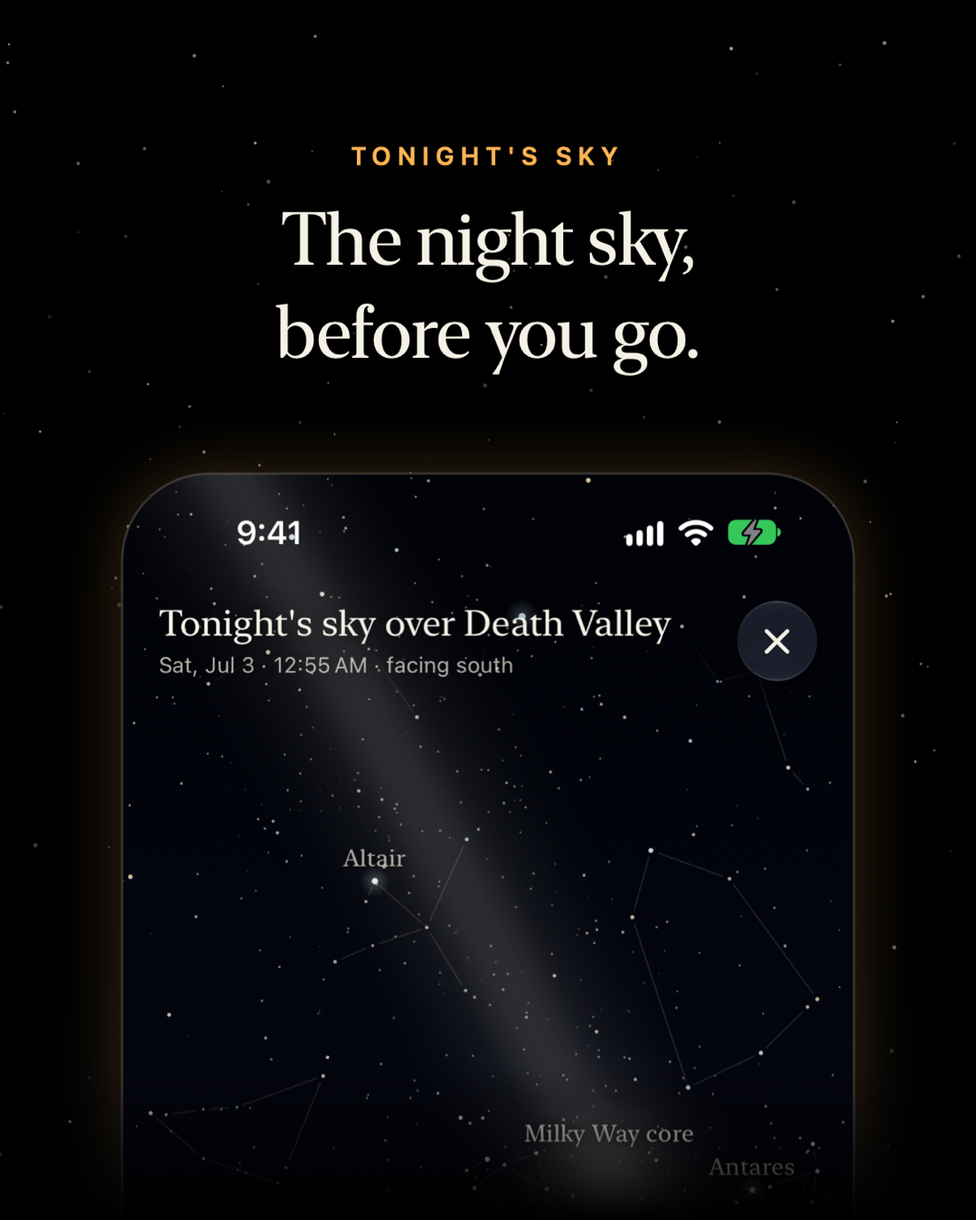
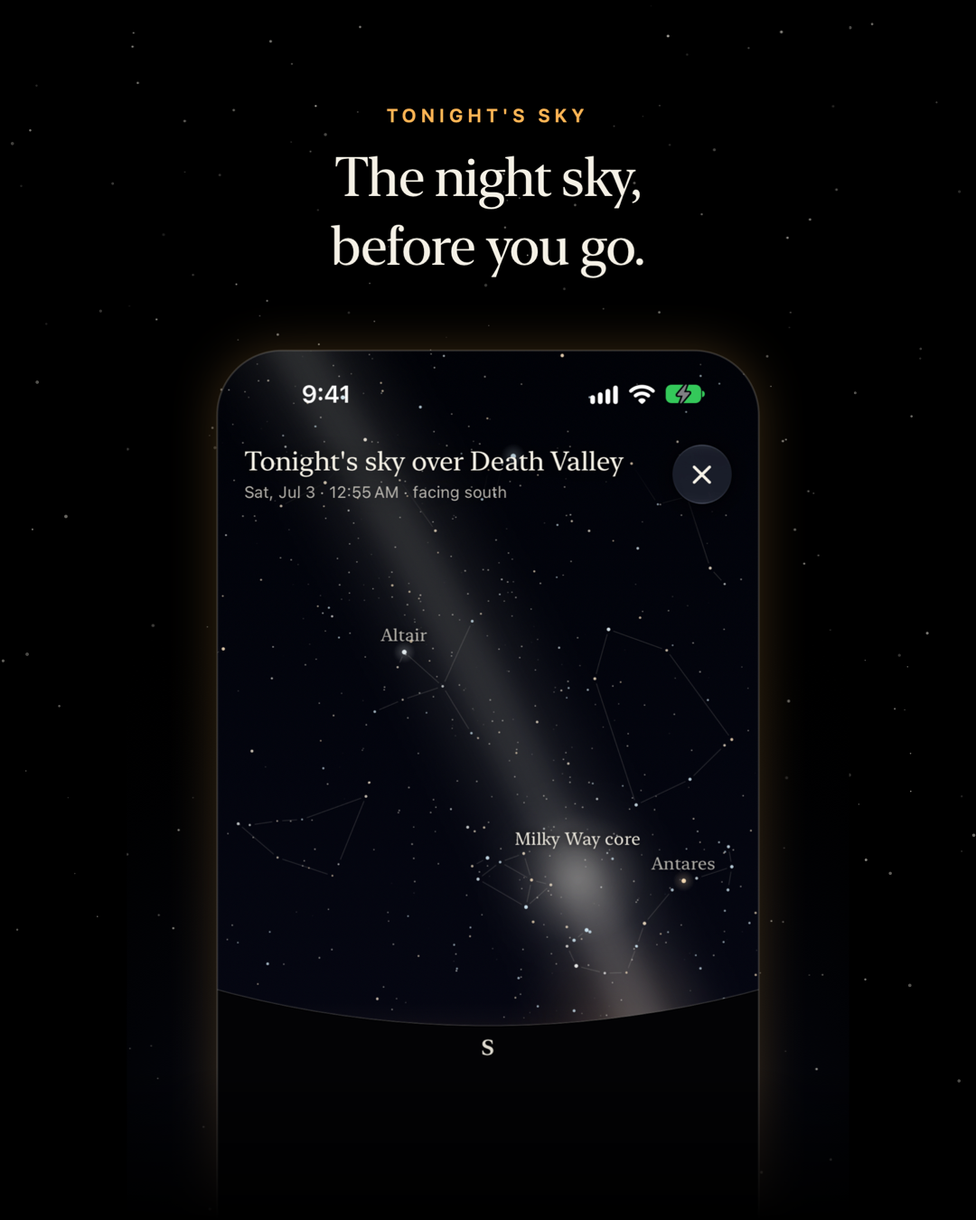
The sky card shows what its alt text says: drawn at 0.74 so the Milky Way core, Antares and the southern horizon clear the bottom fade, the Tonight card's alt text keeps to what its crop shows, the calendar's ringed Oct 13–17 described as the best five-night stretch (the new moon is Oct 10, under cl

diff --git a/Scripts/make_social.swift b/Scripts/make_social.swift
@@ -20,7 +20,8 @@ struct Card {
 // Framed sources: the eyebrow and headline below are the frames' own captions, for reference.
 let cards = [
     Card(source: "Store/1.2 v10/iPhone/6.3-inch/01-tonights-sky.png", output: "01-sky.png",
-         eyebrow: "TONIGHT'S SKY", headline: "The night sky,\nbefore you go.", cropTop: 0, framed: true),
+         eyebrow: "TONIGHT'S SKY", headline: "The night sky,\nbefore you go.", cropTop: 0, framed: true,
+         scale: 0.74),  // smaller, so the core, Antares and the southern horizon sit above the bottom fade
     Card(source: "Store/1.2 v10/iPhone/6.3-inch/02-tonight.png", output: "02-tonight.png",
          eyebrow: "TONIGHT", headline: "Where is the sky\ndarkest tonight?", cropTop: 0, framed: true,
          scale: 0.9),  // the whole dial and its band word

diff --git a/Scripts/capture_store.py b/Scripts/capture_store.py
@@ -1,9 +1,9 @@
 """Raw native-resolution App Store captures for the 1.2 iPhone set. Run after a Debug simulator build.
 
-Usage: python3 Scripts/capture_store.py [SIMULATOR_ID] [DERIVED_DATA] [en|es] [name,name…] [--out FOLDER]
+Usage: python3 Scripts/capture_store.py [SIMULATOR_ID] [DERIVED_DATA] [en] [name,name…] [--out FOLDER]
 Capture on the iOS 27 iPhone 18 Pro: its 1206×2622 screen is App Store Connect's required iPhone slot
 ("Dynamic Island, medium display"), so the frames need no scaling. Raw captures are size-neutral
-(NN-name.png) and go to FOLDER (default `Store/1.2 v10/raw`, or `Store/1.2 v10/raw/es` for es).
+(NN-name.png) and go to FOLDER (default `Store/1.2 v10/raw`).
 The optional name list retakes only those frames and keeps the rest of the set.
 
 The 1.2 story, real sky first: the sky over the park, Tonight (the only dial in the first three frames),
@@ -12,7 +12,8 @@ takes, every park on the map, and the constellation. Tonight, What's up and the 
 Every frame uses live data (`-nyx-state live`: real Open-Meteo forecasts and NPS alerts at capture time,
 scored by the shipping engine), except the journal, which is DEBUG seed data with no personal photo.
 Every launch adds `-nyx-reduce-motion`, so no reveal or dial is mid-flight in a still.
-The Spanish frames follow the 1.1 order until the native review and are not recaptured with this list.
+The Spanish frames follow the 1.1 order until the native review: `es` exits here, since this list's
+names and order are not what `make_store_frames.swift es` reads (`Store/Screenshots/es`, 1.1 order).
 """
 import subprocess,time,pathlib,sys,tempfile
 args=sys.argv[1:]
@@ -22,14 +23,15 @@ if '--out' in args:
 sim=args[0] if len(args)>0 else '5BB44DBD-DBE4-4FA3-84C8-8E92D3B3F0B3'
 derived=args[1] if len(args)>1 else '/tmp/NyxBuild'
 lang=args[2] if len(args)>2 else 'en'
+if lang!='en':
+ sys.exit(f"capture_store.py: only 'en' is captured with the 1.2 list; the Spanish frames keep the 1.1 order in Store/Screenshots/es until the native review (got '{lang}').")
 # Optional fourth argument: only these frames (e.g. field,compass), so a retake keeps the rest of the set.
 only=set(args[3].split(',')) if len(args)>3 else None
 def run(*a): return subprocess.run(['xcrun','simctl',*a],check=True,capture_output=True)
 subprocess.run(['xcrun','simctl','boot',sim],capture_output=True)
 run('bootstatus',sim,'-b')
 run('install',sim,derived+'/Build/Products/Debug-iphonesimulator/Nyx.app')
-folder=pathlib.Path(out or ('Store/1.2 v10/raw'+('/es' if lang=='es' else '')));folder.mkdir(parents=True,exist_ok=True)
-language=['-AppleLanguages','(es)','-AppleLocale','es_MX'] if lang=='es' else []
+folder=pathlib.Path(out or 'Store/1.2 v10/raw');folder.mkdir(parents=True,exist_ok=True)
 today=time.strftime('%Y-%m-%d')
 # (name, launch arguments)
 shots=[
@@ -54,7 +56,7 @@ run('status_bar',sim,'override','--time','9:41','--batteryState','charged','--ba
 try:
  for index,(name,args) in enumerate(shots,1):
   if only and name not in only: continue
-  run('launch','--terminate-running-process',sim,'com.harrypakhale.nyx',*args,'-nyx-reduce-motion',*language)
+  run('launch','--terminate-running-process',sim,'com.harrypakhale.nyx',*args,'-nyx-reduce-motion')
   time.sleep(14 if 'live' in args else 8)
   path=folder/f'{index:02d}-{name}.png'
   # Captured to a temporary file and copied in: simctl may be refused when it overwrites a frame in place.

diff --git a/PHASE_STATUS.md b/PHASE_STATUS.md
@@ -2,10 +2,10 @@
 
 Branch `main`, version **1.2**, build **10** in `project.yml` (build 8 was uploaded on 2026-10-08 and lacks the last two days; build 9 was never uploaded; `INPUT_NEEDED.md` step 12). A design review judged build 9 against the Apple Design Award categories and set eight lanes; each was implemented, reviewed and fixed, then merged in order, integrated (accessibility audit repairs), re-judged against fresh captures and fixed once more. Every change is logged in `DECISIONS.md` under "Award panel — 2026-10-08 (…)" and "Award panel — 2026-10-09 (…)". The score formula and the bands are unchanged.
 
-- **Done:** *The reveal* — the score counts with no word beside it, then the band word, the last digit and one light tick land together; each park and night counts once per session (later visits settle in 0.35 s), Tonight's first count waits for onboarding and first light, the double tap for a reminder-worthy night comes 0.8 s after the dial settles, and when the forecast models disagree the dial shows their range as a band, in words under it and to VoiceOver · *The Moon and the share card* — crater relief from NASA's LOLA elevation along the terminator on every Moon from 120 pt (one 4096×3072 atlas, app only, off while scrubbing, faded toward the limb and full Moon), small Moons keep a faint edge near new, and the share card leads with the night (the Moon or "New moon" with a hairline circle, a light serif score, the models' range, the park, date and reason; no gauge; always exported in colour) · *Platform honesty* — a followed night's Live Activity follows the forecast (score, band and closure, "94 · Pristine as of Wed" when old, one activity per park and night), and Ask Nyx streams only grounded words, lists each lookup live and says "Numbers checked against the records" · *The night stays night* — a night without true darkness shows its twilight with only the brightest stars, none under the midnight sun; no dome seam behind the screens; a calmer sky under Increase Contrast; Assistive Access turns red with a Red light row; Smart Invert checked to leave every screen alone; review prompts per version, never in the dark · *Tonight's first screen* — the answer, then the alternatives, then the starting point as one row; one caveat caption; the tab bar shrinks on scroll (never under VoiceOver, Switch Control or accessibility sizes) with a followed night's strip; no ornamental titles; the flashlight switch dips the screen to black and turns red with one soft tap, one glyph in Control Center · *Under the finger* — the time river's 56 pt loupe with paced detents and a Directions row (step-free spots first), Plan's month as a paging pager that follows the finger with skeleton pages and ringed nights drawing in · *Bold Text and touch* — every outline and hairline 1.6× under Bold Text or Increase Contrast with a minimum mark size, and with VoiceOver the sky arc can be felt under the finger (a hum through the night, knocks at true darkness, taps at moonrise and moonset, the park-local time spoken) · *Stars arrive, stars leave* — Tonight's sky arrives as eyes adapt over about four seconds, the Sky glow panel shows the park's own sky beside the same sky at a city's class 8, "A sky worth protecting" quotes Falchi 2016 and Kyba 2023 with a Globe at Night link, in English and Spanish · *Closing fixes* — tied nights ranked by the uncapped sum of their parts, the gauge's rim on twilight skies, numeral tracking, Plan's selection and height per page, onboarding at accessibility sizes, one lamp tap from the root view, store, nomination and award copy brought to build 10 (442 tests in 43 suites). · *A breakdown that adds up* — the four parts are whole points that always make the sum the caption names (largest remainder), on the park breakdown, the readout and Vision Pro.
-- **Verified 2026-10-09 (this handoff):** Xcode 27.0. The iOS 27 app build from an emptied build folder: BUILD SUCCEEDED in 61 s, zero warnings. The unit suite (iPhone 18 Pro / iOS 27.0): 443 Swift Testing tests in 43 suites pass in 9.3 s (90 s with the build), no failures or warnings in the log. The unit suite on iOS 26.5 (iPhone 17 Pro / iOS 26.5): the same 443 tests in 43 suites pass in 8.7 s (66 s with the build). NyxWatch and NyxVision builds from emptied build folders: BUILD SUCCEEDED in 22 s and 16 s, zero warnings. `apply_translations.py --check`: Localizable, InfoPlist and NyxVision ok. Earlier on October 9: the integration stage reran the accessibility audit, minimised tab bar included, on iOS 27 and 26.5; a capture pass of 129 screens (12 on iOS 26.5, 11 on the iPad 13-inch) fed the re-judging, and 30 iPhone screens (4 on iOS 26.5) and 2 iPad screens were recaptured to check its fixes. UI tests were not rerun for this handoff (only the build number and documents changed).
+- **Done:** *The reveal* — the score counts with no word beside it, then the band word, the last digit and one light tick land together; each park and night counts once per session (later visits settle in 0.35 s), Tonight's first count waits for onboarding and first light, the double tap for a reminder-worthy night comes 0.8 s after the dial settles, and when the forecast models disagree the dial shows their range as a band, in words under it and to VoiceOver · *The Moon and the share card* — crater relief from NASA's LOLA elevation along the terminator on every Moon from 120 pt (one 4096×3072 atlas, app only, off while scrubbing, faded toward the limb and full Moon), small Moons keep a faint edge near new, and the share card leads with the night (the Moon or "New moon" with a hairline circle, a light serif score, the models' range, the park, date and reason; no gauge; always exported in colour) · *Platform honesty* — a followed night's Live Activity follows the forecast (score, band and closure, "94 · Pristine as of Wed" when old, one activity per park and night), and Ask Nyx streams only grounded words, lists each lookup live and says "Numbers checked against the records" · *The night stays night* — a night without true darkness shows its twilight with only the brightest stars, none under the midnight sun; no dome seam behind the screens; a calmer sky under Increase Contrast; Assistive Access turns red with a Red light row; Smart Invert checked to leave every screen alone; review prompts per version, never in the dark · *Tonight's first screen* — the answer, then the alternatives, then the starting point as one row; one caveat caption; the tab bar shrinks on scroll (never under VoiceOver, Switch Control or accessibility sizes) with a followed night's strip; no ornamental titles; the flashlight switch dips the screen to black and turns red with one soft tap, one glyph in Control Center · *Under the finger* — the time river's 56 pt loupe with paced detents and a Directions row (step-free spots first), Plan's month as a paging pager that follows the finger with skeleton pages and ringed nights drawing in · *Bold Text and touch* — every outline and hairline 1.6× under Bold Text or Increase Contrast with a minimum mark size, and with VoiceOver the sky arc can be felt under the finger (a hum through the night, knocks at true darkness, taps at moonrise and moonset, the park-local time spoken) · *Stars arrive, stars leave* — Tonight's sky arrives as eyes adapt over about four seconds, the Sky glow panel shows the park's own sky beside the same sky at a city's class 8, "A sky worth protecting" quotes Falchi 2016 and Kyba 2023 with a Globe at Night link, in English and Spanish · *Closing fixes* — tied nights ranked by the uncapped sum of their parts, the gauge's rim on twilight skies, numeral tracking, Plan's selection and height per page, onboarding at accessibility sizes, one lamp tap from the root view, store, nomination and award copy brought to build 10 (484 tests in 49 suites after award round two). · *A breakdown that adds up* — the four parts are whole points that always make the sum the caption names (largest remainder), on the park breakdown, the readout and Vision Pro.
+- **Verified 2026-10-09 (this handoff):** Xcode 27.0. The iOS 27 app build from an emptied build folder: BUILD SUCCEEDED in 61 s, zero warnings. The unit suite (iPhone 18 Pro / iOS 27.0): 443 Swift Testing tests in 43 suites pass in 9.3 s (90 s with the build), no failures or warnings in the log. The unit suite on iOS 26.5 (iPhone 17 Pro / iOS 26.5): the same 443 tests in 43 suites pass in 8.7 s (66 s with the build). NyxWatch and NyxVision builds from emptied build folders: BUILD SUCCEEDED in 22 s and 16 s, zero warnings. `apply_translations.py --check`: Localizable, InfoPlist and NyxVision ok. Earlier on October 9: the integration stage reran the accessibility audit, minimised tab bar included, on iOS 27 and 26.5; a capture pass of 129 screens (12 on iOS 26.5, 11 on the iPad 13-inch) fed the re-judging, and 30 iPhone screens (4 on iOS 26.5) and 2 iPad screens were recaptured to check its fixes. UI tests were not rerun for this handoff (only the build number and documents changed). Later on October 9, after award round two: the iOS 27 unit suite reports 484 Swift Testing tests in 49 suites with zero warnings, the count the case study and award entries state.
 - **Known issues:** nothing has run on a physical device; build 10's haptics, 120 Hz motion, direct touch, the Moon's relief strength (tuned by eye; ±30% depending on how the shader receives colour), the atlas's ~48 MB of texture memory and Ask Nyx's answers with citations generated first (the system model does not run in the simulator) are on the device pass (`INPUT_NEEDED.md` step 9, "Build 10's new work"). · The iPhone store frames and the four social cards were recaptured from build 10 in award round two (`Store/1.2 v10/`, real sky first, one gauge in the first three); the iPad, Watch and Vision Pro frames (`Store/1.1 v8/`) and the App Preview still predate build 10, and the device pass may require a retake of any iPhone frame whose screen it changes. · Captures not taken: the light route and Tonight's From home panel on iOS 26.5 (audited there only through the Tonight key screen; the iOS 26 captures from the Sky glow lane predate its fixes); the share card's models' range (the `share-disagree` route lands on an early-look night; the range under the dial was seen on tonight-disagree, 73–96, and detail-offline, 55–83); the 9:16 story; xLarge to xxxLarge standard sizes and a 375 pt phone for the city segments; the 6.1-inch Tonight (worked out, not measured); `editor-photo-ax5-bottom` shows the plain editor, not the photo state; the share review at AX5 is the rendered card, so it is no separate check. · Audit and tests: `testMinimisedTabBarPassesTheAudit` is flaky on iOS 27 (the bar did not minimise on a first run, passed on rerun); on iOS 26.5 the system bar sometimes re-expands under the audit, and the 2-second re-audit excuses only findings whose elements have vanished; Tonight's starting-point row still uses `ViewThatFits` (the audit calls its texts partially Dynamic Type, failing only at AX5; if it ever clips, give it the `TitleValueLayout` treatment, not an exemption); the Parks band labels keep their exemption on the standard passes; `testCityLightSegmentsSpeakAsShown` assumes the segments fit on an iPhone 18 Pro. · Behaviour to know: a count already started keeps playing behind Control Center (the hold applies in the background only); DEBUG capture routes load forecasts after the first frame, so Tonight's dial can sweep from one park to another there (a real launch reads caches first); the time to answer (about 2.5 s) was measured on a score of 22, and about 650 ms between first frame and the gauge's first task is unexplained; a pending Live Activity is re-requested only while Nyx is in the foreground and the end-and-request path is untested on a device; in night vision Ask Nyx's streaming and checked words are the same red; with VoiceOver the night-vision switch may say its state twice; with direct touch, the arc's legend and times also hum; the 2.6 pt minimum grows the lowest-score marks slightly and under Bold Text unfilled marks near a Pristine dot's size; the river's loupe covers a night or two either side near the first nights (by design); on a 6.3-inch iPhone Best stretch's card starts under the tab bar with only its dates visible, as in build 9; the pager rebuilds once on first appearance (harmless); Ask Nyx can name a crescent that sets before true darkness over the new Moon when the uncapped sums differ by less than half a point (Arches, Oct 15 over Oct 9; consistent with the moonlight model, logged); Hot Springs gets no city comparison; Smart Invert was not seen inside Assistive Access or field mode; protan eyes get 3.89:1 for muted text on the standard red over the polar twilight's bottom edge (the brighter red fixes it). · Deferred, logged in `DECISIONS.md`: a veil keeping background stars off text rows; capping the quarter Moon's limb highlight; an overcast night's number beside a smaller cloud in Plan; the iPad journal's empty-state button, which floats far from the empty constellation on a 13-inch canvas; the month tick when the scroll target is chosen; the warm edge glow on the Spanish share card; tighter spacing for long starting-point names; overriding the status bar in iOS 26 captures; onboarding's first page at AX5 still continues under the page dots (the indicator flashes and it scrolls); the get-nyx.com light page and a Dark Sky Week In-App Event wait for the recapture. · The Spanish essay and new strings are drafts (step 11). Nothing is pushed: pushing `main` redeploys get-nyx.com (step 20).
-- **Next:** (1) the owner's device pass on build 10 (`INPUT_NEEDED.md` steps 9–10, including the new "Build 10's new work" list), fixing what it finds; (2) one capture pass on iOS 26.5, iOS 27 and the iPad 13-inch, the store frames re-sequenced (sky frame first, no repeated 97 gauge), social cards regenerated, the App Preview recorded; (3) archive and upload 1.2 (10) for iOS with the watch and for visionOS (`python3 Scripts/verify_release.py --require-key` first), select build 10 and submit (steps 12–17). Starting point for the next session: `main` at the build 10 handoff commit; The iOS 27 app build then The unit suite should report 484 tests in 49 suites (after award round two).
+- **Next:** (1) the owner's device pass on build 10 (`INPUT_NEEDED.md` steps 9–10, including the new "Build 10's new work" list), fixing what it finds; (2) the iPad, Apple Watch and Vision Pro store sets recaptured (the iPhone set is done in `Store/1.2 v10/`, real sky first, with its social cards), the App Preview recorded once shot 3's Moon route is fixed, and a retake of any iPhone frame the device pass changes; (3) archive and upload 1.2 (10) for iOS with the watch and for visionOS (`python3 Scripts/verify_release.py --require-key` first), select build 10 and submit (steps 12–17). Starting point for the next session: `main` at the build 10 handoff commit; the iOS 27 app build should report zero warnings and the unit suite 484 tests in 49 suites (after award round two).
 
 # Nyx handoff — 2026-10-08 (Team review — version 1.2, build 9)
 

diff --git a/INPUT_NEEDED.md b/INPUT_NEEDED.md
@@ -78,7 +78,7 @@
     - **Spanish (Mexico):** after step 11.
     - **Website URLs:** Privacy Policy `https://get-nyx.com/privacy`, Support `https://get-nyx.com/support`, Marketing `https://get-nyx.com/`.
 
-14. **Enter the metadata and screenshots.** Paste from `Store/1.1/metadata.md` (subtitle "Stargazing in national parks", keywords, description) and `metadata-visionos.md`. Screenshots, replacing every earlier upload: **iPhone: `Store/1.2 v10/iPhone/`** (recaptured from build 10 on October 9, real sky first, one gauge in the first three; `6.3-inch/` is required, `6.9-inch/` and `6.5-inch/` optional; captions and contents in `Store/1.2 v10/README.md`). `Store/1.1 v8/` is superseded for iPhone. **iPad `Store/1.1 v8/iPad/`, Watch `Store/1.1 v8/Apple Watch/` and Vision Pro `Store/1.1 v8/Apple Vision Pro/` are still the build 8 sets** until their own recapture. Never upload the build 7 frames in `Store/Framed/` (they show scores the new rules no longer allow). **Spanish frames wait for the native review** (step 11). **The device pass (step 9) may still require a retake** of any frame whose screen it changes: ask me and I retake only those frames (`Scripts/capture_store.py` takes a list of names) and regenerate the social cards. Optional App Preview: `Store/1.1/app-preview-script.md` (28 s, now with the city-light shot; recorded after the device pass). **Social posts:** the four 4:5 cards in `Store/Social` are built from the build 10 frames and `Store/Social/POSTS.md` carries their alt text and a city-light post; only you can post, from your own accounts, once 1.2 is live. The promo videos in that folder predate 1.2 and are not to be posted. Ask me to recapture the iPad, Watch and Vision Pro sets after the device pass, and to draft the get-nyx.com light page and an International Dark Sky Week In-App Event; for the event, first confirm the 2027 dates and how DarkSky asks the name to be used, on darksky.org, and send them to me.
+14. **Enter the metadata and screenshots.** Paste from `Store/1.1/metadata.md` (subtitle "Stargazing in national parks", keywords, description) and `metadata-visionos.md`. Screenshots, replacing every earlier upload: **iPhone: `Store/1.2 v10/iPhone/`** (recaptured from build 10 on October 9, real sky first, one gauge in the first three; `6.3-inch/` is required, `6.9-inch/` and `6.5-inch/` optional; captions and contents in `Store/1.2 v10/README.md`). `Store/1.1 v8/` is superseded for iPhone. **iPad `Store/1.1 v8/iPad/`, Watch `Store/1.1 v8/Apple Watch/` and Vision Pro `Store/1.1 v8/Apple Vision Pro/` are still the build 8 sets** until their own recapture. Never upload the build 7 frames in `Store/Framed/` (they show scores the new rules no longer allow). **Spanish frames wait for the native review** (step 11). **The device pass (step 9) may still require a retake** of any frame whose screen it changes: ask me and I retake only those frames (`Scripts/capture_store.py` takes a list of names) and regenerate the social cards. Optional App Preview: `Store/1.1/app-preview-script.md` (28 s, now with the city-light shot; recorded after the device pass). Before it is recorded, ask me to fix shot 3's `-nyx-chapter moon` route, which lands with the "Wake me" panel cut under the chapter index on iOS 26.5 and 27; it should land with the Moonlight panel at the top. **Social posts:** the four 4:5 cards in `Store/Social` are built from the build 10 frames and `Store/Social/POSTS.md` carries their alt text and a city-light post; only you can post, from your own accounts, once 1.2 is live. The promo videos in that folder predate 1.2 and are not to be posted. Ask me to recapture the iPad, Watch and Vision Pro sets after the device pass, and to draft the get-nyx.com light page and an International Dark Sky Week In-App Event; for the event, first confirm the 2027 dates and how DarkSky asks the name to be used, on darksky.org, and send them to me.
 
 15. **Answer App Privacy, age rating and Accessibility.** App Privacy: "Data Not Collected", no tracking (`PRIVACY.md`). Age rating: re-answer (unchanged). Accessibility Nutrition Labels: declare per device only what step 9 confirmed. **Review notes:** paste `SUBMISSION.md` § Review notes, including the background refresh sentence: "Background App Refresh updates saved parks' cloud forecasts and park alerts from the same public services (api.open-meteo.com, developer.nps.gov) about every six hours, so local reminders and the widget never rely on an old forecast. No user data is sent."
 

diff --git a/Store/1.2 v10/README.md b/Store/1.2 v10/README.md
@@ -32,7 +32,7 @@ Captured natively at 1206 × 2622 on iPhone 18 Pro (iOS 27.0), which is App Stor
 | `04-score.png` | THE DARKNESS SCORE / One number, and its reasons. | Death Valley's page, Tonight chapter: gauge 97 Pristine (band word and scale inside the dial), best window 7:50 PM – 5:30 AM, clear, with the core's hours, and the four parts (Moonlight 40/40, Clouds 25/25 with "Models agree", Sky glow 17/20, True darkness 15/15) |
 | `05-field-mode.png` | FIELD MODE / Red light for dark-adapted eyes. | Field mode at Joshua Tree (65 Good), 60 minutes after sunset: "True darkness in 23 min, at 7:39 PM, then 9h 42m of it", the Draconids at their best, the core sinking, eyes adjusting 4 of about 30 minutes |
 | `06-where-to-look.png` | WHERE TO LOOK / Point your iPhone. Find the core. | Where to look at Joshua Tree on July 3, 2027, about 3¾ hours after sunset: the core in the south under the reticle, Mars to the right. Beyond the forecast, so the header says the score (75 Excellent) uses the park's usual clouds |
-| `07-calendar.png` | BEST NIGHTS / Choose the night worth the drive. | Plan, One park: Joshua Tree's October 2026, nights sized by score, the new-moon nights Oct 13–17 ringed (89, 89, 89, 89, 88), forecast, early-look and usual-cloud nights drawn filled, half and hollow, and the best stretch "Tue, Oct 13 – Sat, Oct 17" under the tab bar |
+| `07-calendar.png` | BEST NIGHTS / Choose the night worth the drive. | Plan, One park: Joshua Tree's October 2026, nights sized by score, the best five-night stretch Oct 13–17 ringed (89, 89, 89, 89, 88), Oct 10 (the new moon) under cloud, forecast, early-look and usual-cloud nights drawn filled, half and hollow, and the best stretch "Tue, Oct 13 – Sat, Oct 17" under the tab bar |
 | `08-city-light.png` | WHAT CITY LIGHT TAKES / See the stars a city would hide. | Death Valley, The place: the Sky glow panel with the park's own drawn sky, the "Here · Class 2 / City · Class 8" switch, "An illustration: the same sky drawn at this park's estimated class and at a city's.", Bortle class 2 of 9, night lights from space, and the glow on the horizon from Las Vegas (45%), Ridgecrest and Visalia. Route: `-nyx-screen light -nyx-state live -nyx-park deva` (the default "Here" state) |
 | `09-parks-map.png` | EVERY PARK TONIGHT / 63 parks, darkest first. | Parks map: all 63 parks tonight with the Alaska, Hawaiʻi, American Samoa and Virgin Islands insets, the legend, and "Darkest tonight": Lassen Volcanic, Death Valley and Guadalupe Mountains at 97 |
 | `10-constellation.png` | YOUR CONSTELLATION / Every night becomes a star. Footnote: "Sample entries. Your journal stays on this iPhone." | Journal: the constellation from four sample nights in the Southwest, "4 of 63 national park skies", "Your year under the stars" |
@@ -44,4 +44,4 @@ Captured natively at 1206 × 2622 on iPhone 18 Pro (iOS 27.0), which is App Stor
 - **Times.** What's up gives the core's hours to the minute (7:45 – 8:34 PM); the score page's best-window line gives them to the nearest ten minutes (7:50 – 8:30 PM). Both are the app's own rounding of the same night.
 - The calendar's best-stretch card sits under the tab bar, with its dates legible; the route has no scroll control for the Plan tab, and the month is the frame's subject.
 - Scores, forecasts and alerts are live as of October 9, 2026. The owner's device pass (`INPUT_NEEDED.md` step 9) may still require a retake of any frame whose screen it changes.
-- Social cards (`Store/Social/`) are built from `iPhone/6.3-inch/` frames 01, 02, 07 and 08 by `Scripts/make_social.swift`.
+- Social cards (`Store/Social/`) are built from `iPhone/6.3-inch/` frames 01, 02, 07 and 08 by `Scripts/make_social.swift`, each drawn at its own scale (0.74, 0.9, 0.72, 0.8) so the core and horizon, the whole dial, the month's nights and the city switch with "An illustration" stay above the bottom fade.

diff --git a/DECISIONS.md b/DECISIONS.md
@@ -1333,7 +1333,11 @@ Shell, compliance and Vision Pro clouds lanes (the park-page lane follows). Gate
 - City light uses the default "Here · Class 2" state, not `-nyx-glow-compare city`: the switch is legible, "An illustration" is in frame, and the park's full sky is what "See the stars a city would hide." asks the reader to look at.
 - Sky frame: Death Valley on July 3, 2027 at the route's default hour (12:55 AM, facing south) already shows the core with Altair and Antares named, so no time control was needed; the date is on screen, as the route makes no forecast claim for that night.
 - The Spanish frame list is left as it was (1.1 order and sources) with a one-line note, and not regenerated: its captions and captures wait for the native review (AM-12).
-- Social cards take frames 01, 02, 07 and 08; framed cards gain a per-card scale (0.9, 0.72, 0.8) so the 4:5 crop keeps the whole dial, the month's nights, and the city switch with "An illustration" in view instead of cutting below the caption; stars fill the margins beside a smaller frame.
+- Social cards take frames 01, 02, 07 and 08; framed cards gain a per-card scale (0.74, 0.9, 0.72, 0.8) so the 4:5 crop keeps the core, Antares and the southern horizon above the bottom fade, the whole dial, the month's nights, and the city switch with "An illustration" in view instead of cutting below the caption; stars fill the margins beside a smaller frame.
 - POSTS.md: the Threads post names every platform at 488 characters with the link; one X post on what city light takes uses only checked facts (58 of 63 parks name the towns lighting the horizon from NASA Black Marble; the paired sky labelled an illustration; Globe at Night in Safari, Nyx sends nothing), at 276 characters; the pre-1.2 promo videos are marked not to be posted.
 - App Preview: a city-light shot after the calendar (Death Valley's The place chapter, the switch tapped about 1 s in), shot 2 trimmed to 5 s and the end card to 3 s, 28 s in all; shot 3 takes the existing `-nyx-chapter moon` route instead of asking for a new one.
-- Test counts in the case study and award entries say 484 tests in 49 suites, the count the iOS 27 suite reported on 2026-10-09 after the round-two lanes.
+- Test counts in the case study and award entries say 484 tests in 49 suites, the count the iOS 27 suite reported on 2026-10-09 after award round two.
+- The sky card's alt text matches the card again: at scale 1 its crop ended above the horizon with the core and Antares inside the bottom fade, so it is drawn at 0.74; the Tonight card keeps 0.9 (the dial large) and its alt text drops the closures line, which is below its crop.
+- The calendar's ringed nights (Oct 13–17) are described as the best five-night stretch, with Oct 10 under cloud: on the engine's epoch the new moon is Oct 10, so those nights are 3 to 7 days after it, a waxing crescent, not new-moon nights.
+- `capture_store.py es` now exits with a message instead of capturing: the 1.2 list writes size-neutral names in a new order, while `make_store_frames.swift es` reads the 1.1 Spanish sources, so a Spanish run would have fed stale frames silently until the native review.
+- The App Preview's shot 3 route (`-nyx-chapter moon`) is marked a known issue in the script and its fix added to step 14's recording to-do, so the recording session meets the cut "Wake me" panel before it records, not during.

diff --git a/Store/1.1/app-preview-script.md b/Store/1.1/app-preview-script.md
@@ -45,7 +45,7 @@ Revised 2026-10-07 (ST-4, DX-19). The order follows the product page's hero orde
 |---|---|---|---|---|
 | 1 | 0.0 to 4.0 s | Cold open on the real sky in colour over the park, then Tonight's first line: the darkest park and its score counting up. | `The darkest park. The darkest night.` (6) | `-nyx-screen sky -nyx-state live` cut to a plain Debug launch with no `-nyx-screen`, recorded after one warm launch (onboarding done, forecasts cached). The `tonight` route loads its forecasts after the first frame, so its dial starts on one park and jumps to another (34 to 97) mid-count; a warm launch reads the caches first and counts once from 0 to the hero score. |
 | 2 | 4.0 to 9.0 s | The thirty-night time river, scrubbed mid-way: the Moon above the selected night changes shape night by night, the best nights glow, the half-filled and hollow nights show where the forecast thins out. Perform the drag during the recording; haptics do not appear in video. Poster frame here, at about 7 s, with the Moon half lit. | `Scrub the month. Watch the Moon.` (6) | `-nyx-screen detail -nyx-state live` (scroll until the river fills the lower half) |
-| 3 | 9.0 to 13.0 s | The Moon at size: the shader Moon filling most of the width, lit at that night's phase, its terminator slowly crossing the craters as the night steps on. | `The Moon, as the park sees it.` (6) | `-nyx-screen detail -nyx-chapter moon` (the park page scrolled to the Moon at size in The sky chapter; before recording, check that the panel above it is not cut under the chapter bar, as noted in `Store/1.1 v8/README.md`) |
+| 3 | 9.0 to 13.0 s | The Moon at size: the shader Moon filling most of the width, lit at that night's phase, its terminator slowly crossing the craters as the night steps on. | `The Moon, as the park sees it.` (6) | `-nyx-screen detail -nyx-chapter moon` (the park page scrolled to the Moon at size in The sky chapter; known issue: the route lands with the "Wake me" panel cut under the chapter index on iOS 26.5 and 27, as noted in `Store/1.1 v8/README.md`; fix it to land with the Moonlight panel at the top before recording) |
 | 4 | 13.0 to 17.0 s | Field mode: the screen turns red, the countdown to true darkness runs, the eye clock fills. | `Red light for dark-adapted eyes.` (5) | `-nyx-screen field -nyx-state adapting -nyx-field-minutes 14` |
 | 5 | 17.0 to 21.0 s | The calendar: a month of nights as tiny skies, the best stretch ringed, the month sliding to the next. | `Choose the night worth the drive.` (6) | `-nyx-screen calendar -nyx-state live` (route name may change with the Plan tab; check `RootView`) |
 | 6 | 21.0 to 25.0 s | What a city's light takes: Death Valley's The place chapter opens on the park's own drawn sky; about 1 s in, tap "City · Class 8" and the class animates on the shared spring as the stars thin to a city's handful; hold on the city sky with "An illustration" in view. | `What a city's light takes.` (5) | `-nyx-screen detail -nyx-park deva -nyx-chapter place` (without `-nyx-reduce-motion`, so the switch animates) |

diff --git a/Store/Social/POSTS.md b/Store/Social/POSTS.md
@@ -99,8 +99,8 @@ Replace `[link]` with the App Store link: `https://apps.apple.com/us/app/nyx-dar
 ## Alt text (paste into each image's description)
 
 1. Nyx's full-screen sky over Death Valley for Saturday, July 3, at 12:55 AM, facing south. Headline: "The night sky, before you go." The Milky Way rises from the southern horizon with its core labelled; Altair and Antares are named, and faint lines trace their constellations.
-2. Nyx's Tonight screen for Friday, October 9. Headline: "Where is the sky darkest tonight?" Death Valley is the darkest park within 200 miles, with a Darkness Score of 97, Pristine, on an amber dial. Below it: "No closures listed, check alerts before you go."
-3. Nyx's Plan tab for Joshua Tree, October 2026. Headline: "Choose the night worth the drive." Each night is a dot sized by its score, with the score beneath; October 13 to 17, the nights around the new moon, are ringed, with scores of 88 and 89.
+2. Nyx's Tonight screen for Friday, October 9. Headline: "Where is the sky darkest tonight?" Death Valley is the darkest park within 200 miles, with a Darkness Score of 97, Pristine, on an amber dial.
+3. Nyx's Plan tab for Joshua Tree, October 2026. Headline: "Choose the night worth the drive." Each night is a dot sized by its score, with the score beneath; the best five-night stretch, October 13 to 17, is ringed, with scores of 88 and 89, and October 10 shows a cloud.
 4. Nyx's Sky glow panel for Death Valley. Headline: "See the stars a city would hide." A drawn sky full of stars and the Milky Way, a switch between "Here, Class 2" and "City, Class 8", and the note "An illustration: the same sky drawn at this park's estimated class and at a city's." Below: Bortle estimate, Class 2 of 9.
 
 ## Notes
